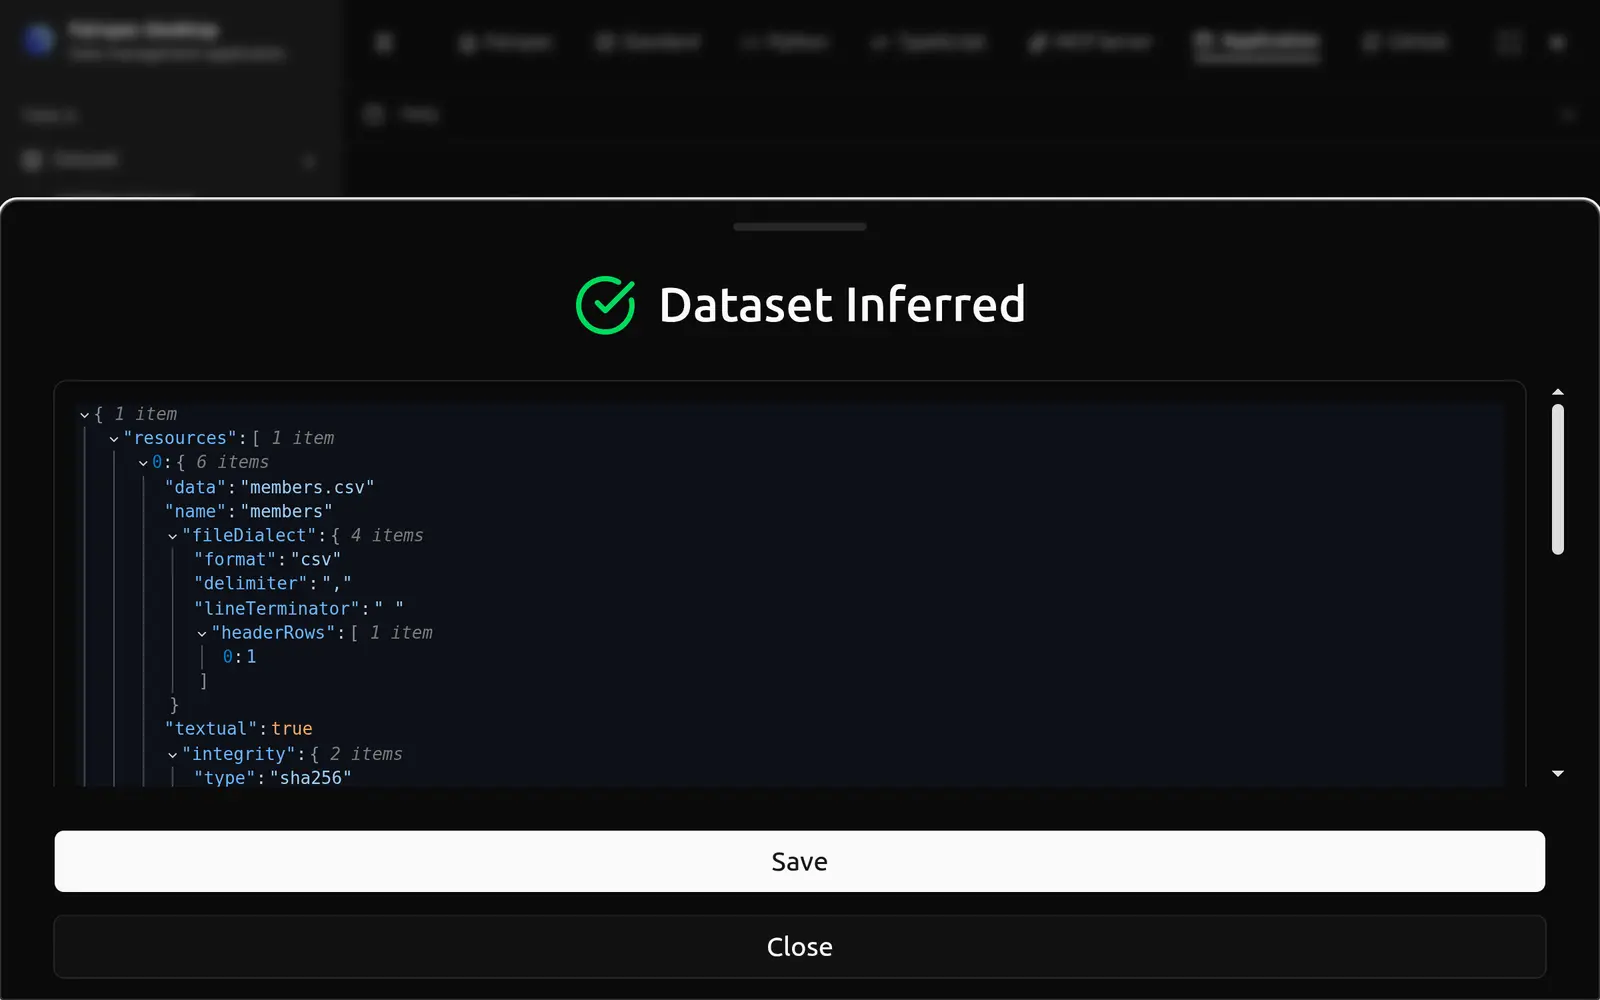
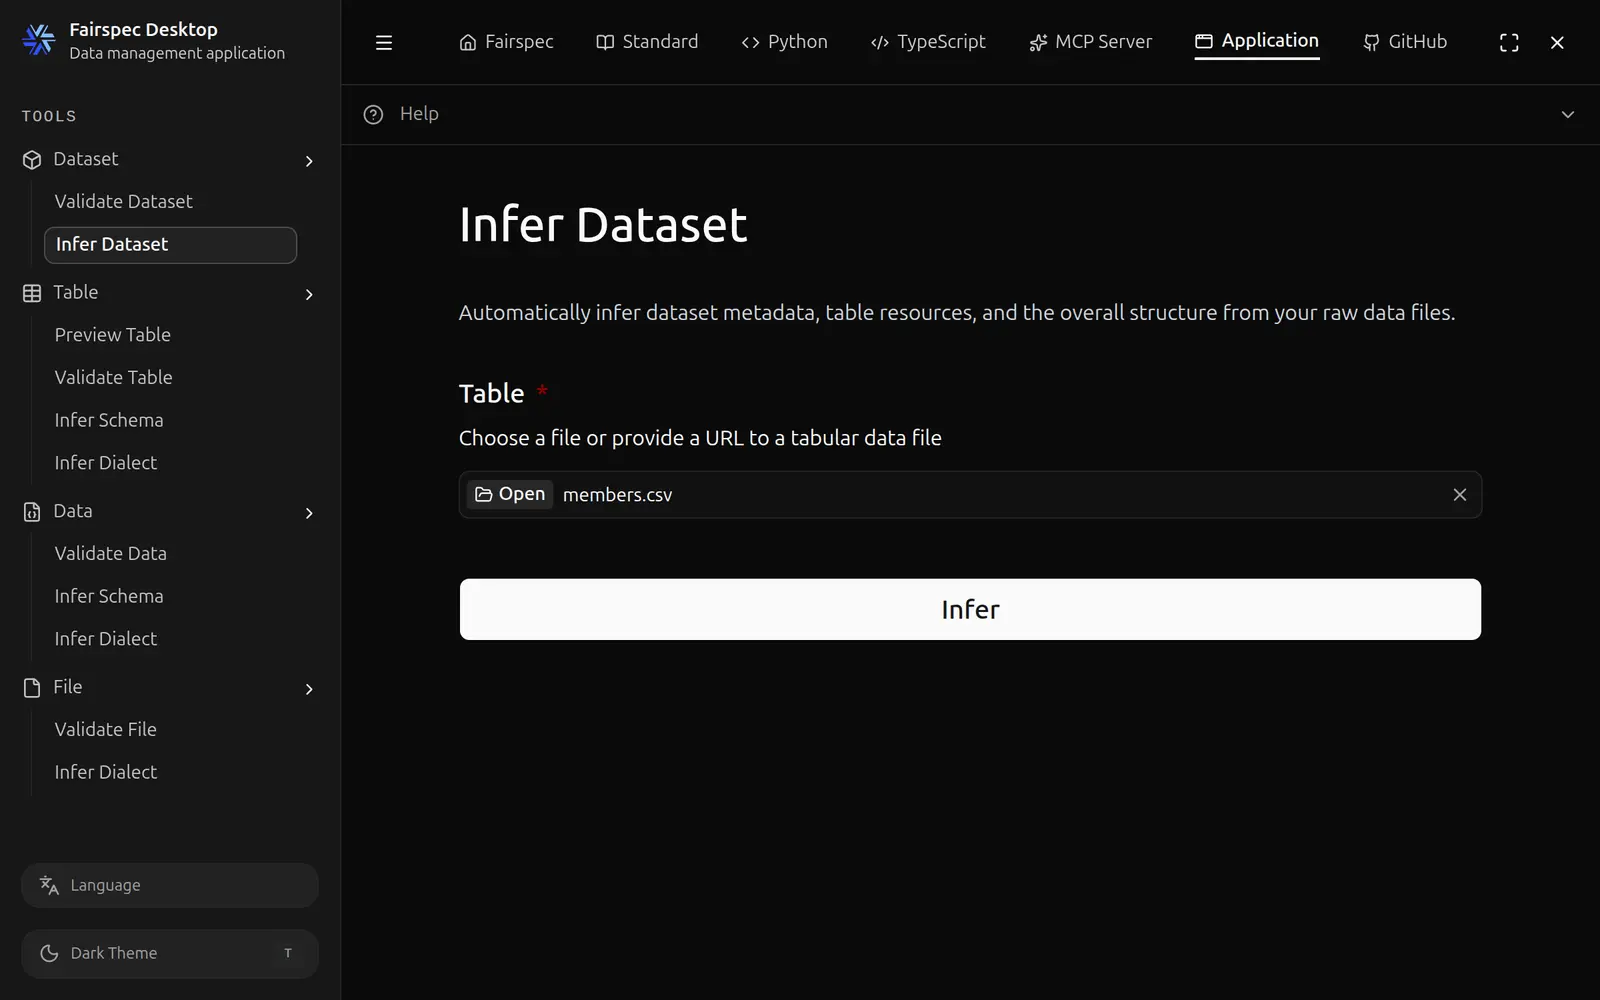
docs: open the desktop hero on the app's main screen and mix plain pages with results

diff --git a/.livemark/components/Panes.tsx b/.livemark/components/Panes.tsx
@@ -4,16 +4,17 @@ import { type Shot, tk } from "./Landing.tsx"
 
 // Captured from the built app on the files in .agents/skills/landing-terminals/samples/
 export const desktopShots = {
+  main: desktopShot("main", "Fairspec Desktop's home screen listing its four tools"),
   dataset: desktopShot(
     "dataset",
-    "Fairspec Desktop inferring a dataset from members.csv",
+    "Fairspec Desktop ready to infer a dataset from members.csv",
   ),
   table: desktopShot(
     "table",
     "Fairspec Desktop reporting two invalid cells in broken.csv",
   ),
   data: desktopShot("data", "Fairspec Desktop inferring a data schema from survey.json"),
-  file: desktopShot("file", "Fairspec Desktop inferring the dialect of members.csv"),
+  file: desktopShot("file", "Fairspec Desktop ready to infer the dialect of members.csv"),
 } satisfies Record<string, Shot>
 
 // Outputs are copied from real runs on .agents/skills/landing-terminals/samples/

diff --git a/.livemark/routes/desktop.tsx b/.livemark/routes/desktop.tsx
@@ -213,6 +213,16 @@ function ApplicationPage() {
 const membersCsv = { eyebrow: "Input", file: "members.csv", code: <MembersCsv /> }
 
 const slides: Slide[] = [
+  {
+    id: "overview",
+    title: "Overview",
+    shot: desktopShots.main,
+    source: {
+      eyebrow: "No code required",
+      file: "macOS · Windows · Linux",
+      code: <>Your files never leave your machine.</>,
+    },
+  },
   { id: "dataset", title: "Dataset", shot: desktopShots.dataset, source: membersCsv },
   {
     id: "table",

diff --git a/.livemark/routes/index.tsx b/.livemark/routes/index.tsx
@@ -246,7 +246,7 @@ const slides: Slide[] = [
       </HeroTerminal>
     ),
   },
-  { id: "desktop", title: "Desktop", shot: desktopShots.table },
+  { id: "desktop", title: "Desktop", shot: desktopShots.main },
 ]
 
 // From the nyc-311 10GB run in .humans/benchmark-nyc-311.html; full validators only.

diff --git a/.agents/skills/landing-terminals/SKILL.md b/.agents/skills/landing-terminals/SKILL.md
@@ -26,12 +26,13 @@ to unreadable sizes in a narrow column. They live in `.livemark/components/Panes
 
 A hero slide wraps a session in `HeroTerminal`; a split section puts it in
 `<WindowCard><TerminalPane>`. The only images are the desktop
-app's own screens, `desktopShots` in `.livemark/public/desktop/` — one per tool (Dataset, Table,
-Data, File), each a real run's result drawer, 1600×1000 webp in light and `-dark`. Recapture
+app's own screens, `desktopShots` in `.livemark/public/desktop/`, 1600×1000 webp in light and
+`-dark`: the home screen first, then one per tool, alternating a page with its input filled
+(Dataset, File) and a real run's result drawer (Table, Data) so not every slide is an overlay. Recapture
 them from the built app: `pnpm -C desktop build`, launch
 `desktop/node_modules/.bin/electron desktop --remote-debugging-port=<port>` from a copy of
 `samples/` so the fields hold bare file names, set the window to 1200×750 at scale 2 over CDP,
-fill each route's input and submit. Toggle the `dark` class on `<html>` for the dark set rather
+fill each route's input and, for a result, submit. Toggle the `dark` class on `<html>` for the dark set rather
 than the app's theme switch, which persists to the user's settings. The home Standard slide is the annotated
 `dataset.json` (`SpecPreview` in `.livemark/routes/index.tsx`).
 
